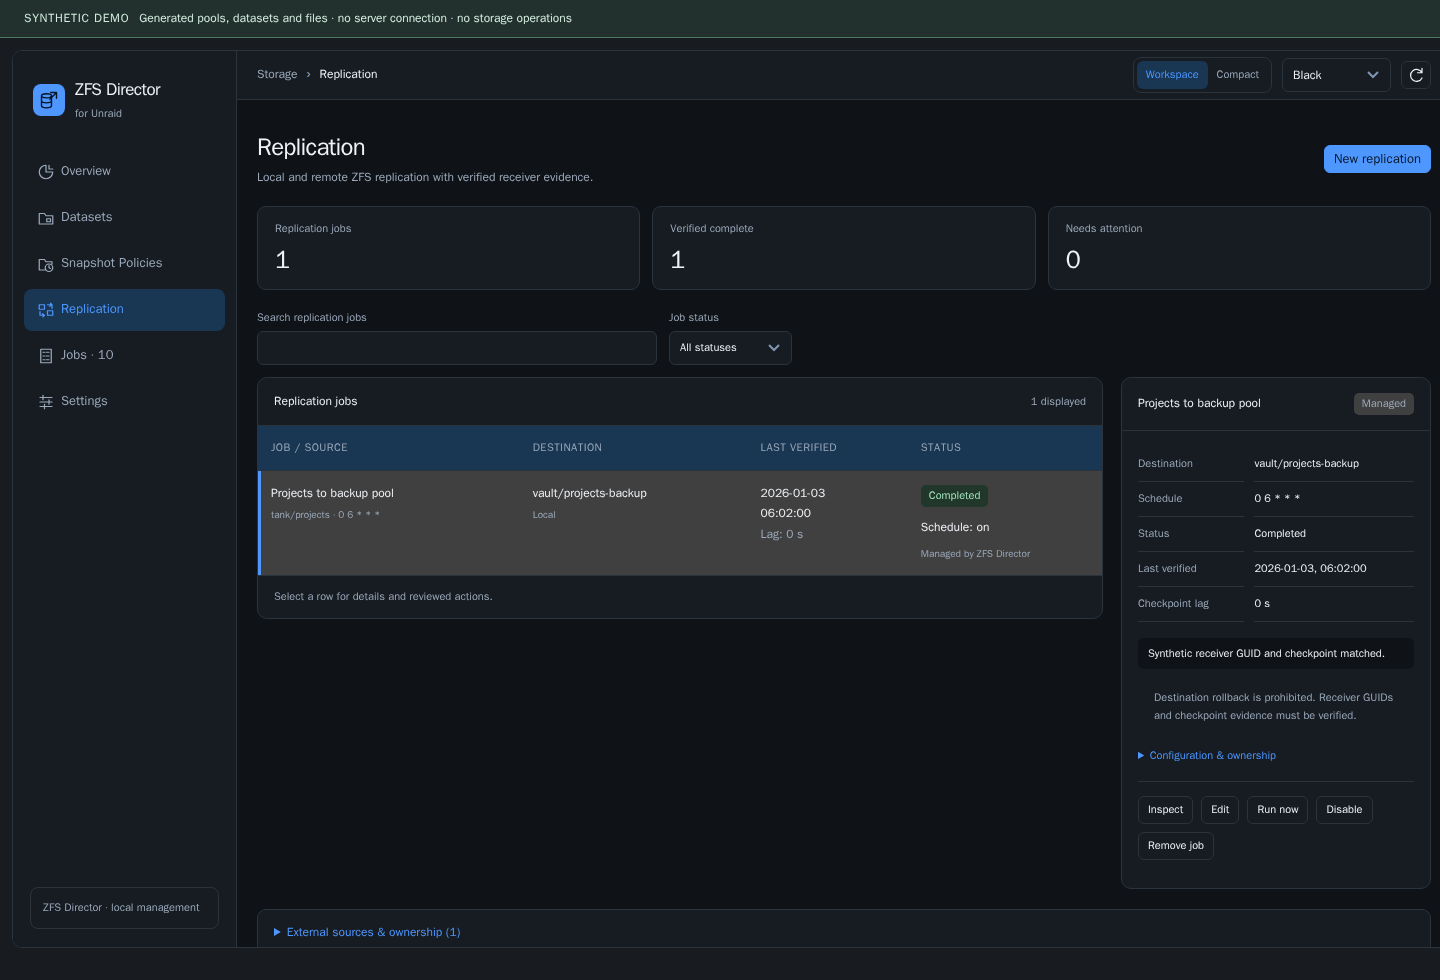
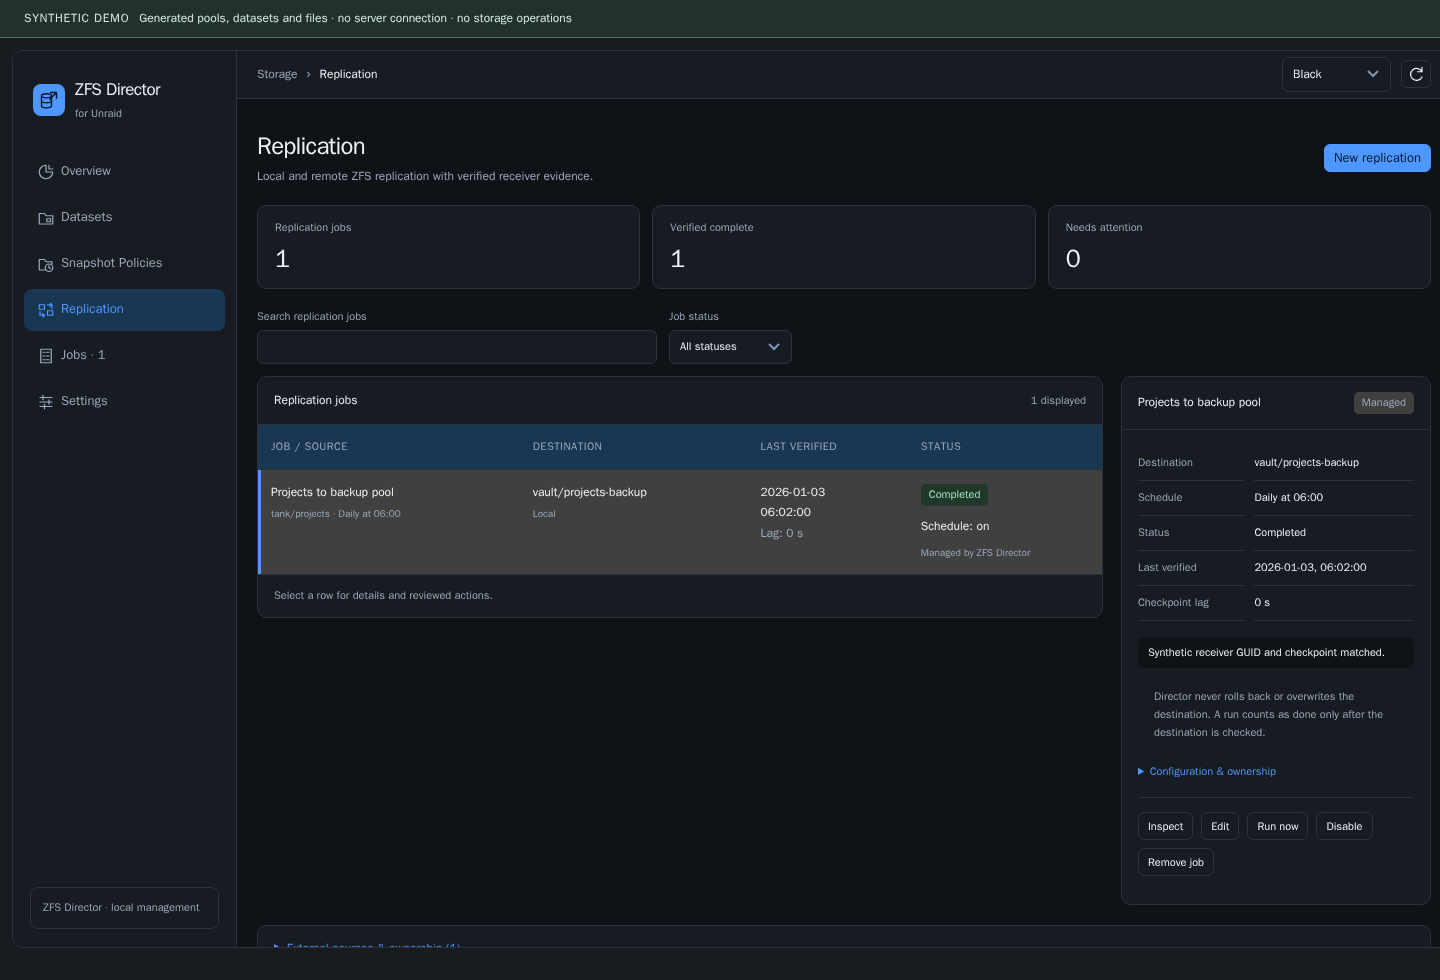
feat: Jobs for background work and failures, one layout, quieter flash, plainer texts (2026.11.13.1)

diff --git a/tests/installer.test.py b/tests/installer.test.py
@@ -44,7 +44,7 @@ class InstallerTests(unittest.TestCase):
     def removal_fixture(self, anchor):
         output = anchor / 'build'
         subprocess.run(['python3', str(ROOT / 'tools/build-installer.py'), '--output', str(output),
-                        '--release-base-url', 'https://example.invalid/releases/2026.11.09.12'],
+                        '--release-base-url', 'https://example.invalid/releases/2026.11.13.1'],
                        cwd=ROOT, check=True, capture_output=True)
         (anchor / 'live/scripts').mkdir(parents=True)
         (anchor / 'live/scripts/zfsm-worker.php').write_text('synthetic worker boundary')
@@ -156,12 +156,12 @@ class InstallerTests(unittest.TestCase):
         with tempfile.TemporaryDirectory(dir=STAND_TMP) as tmp:
             output = pathlib.Path(tmp) / 'build'
             subprocess.run(['python3', str(ROOT / 'tools/build-installer.py'), '--output', str(output),
-                            '--release-base-url', 'https://example.invalid/releases/2026.11.09.12'],
+                            '--release-base-url', 'https://example.invalid/releases/2026.11.13.1'],
                            cwd=ROOT, check=True, capture_output=True)
             self.assertTrue((output / 'zfs-director.plg').is_file(), 'The public plugin URL must use ZFS Director branding')
-            with zipfile.ZipFile(output / 'ZFS-Director-2026.11.09.12-Unraid.zip') as bundle:
+            with zipfile.ZipFile(output / 'ZFS-Director-2026.11.13.1-Unraid.zip') as bundle:
                 guide = bundle.read('INSTALL.txt').decode()
-                self.assertIn('https://example.invalid/releases/2026.11.09.12/zfs-director.plg', guide)
+                self.assertIn('https://example.invalid/releases/2026.11.13.1/zfs-director.plg', guide)
                 self.assertNotIn('explicit acceptance', guide)
                 self.assertNotIn('Copy its TWO files', guide)
                 self.assertNotIn('/boot/config/plugins/zfs.master.ui/', guide)
@@ -229,17 +229,17 @@ class InstallerTests(unittest.TestCase):
                 output = pathlib.Path(folder) / 'build'
                 args = ['python3', str(ROOT / 'tools/build-installer.py'), '--output', str(output)]
                 if public:
-                    args += ['--release-base-url', 'https://example.invalid/releases/2026.11.09.12']
+                    args += ['--release-base-url', 'https://example.invalid/releases/2026.11.13.1']
                 subprocess.run(args, cwd=ROOT, check=True, capture_output=True)
                 plugin_name = 'zfs-director.plg' if public else 'zfs.master.ui.local.plg'
-                bundle = output / 'ZFS-Director-2026.11.09.12-Unraid.zip'
+                bundle = output / 'ZFS-Director-2026.11.13.1-Unraid.zip'
                 self.assertTrue(bundle.is_file(), 'Users need a ready manual-install ZIP')
                 with zipfile.ZipFile(bundle) as archive:
                     self.assertIsNone(archive.testzip())
                     names = set(archive.namelist())
                     expected = {'INSTALL.txt', 'INSTALL.ru.txt', 'INSTALLATION.md', 'SHA256SUMS',
                                 'zfs-director/' + plugin_name,
-                                'zfs-director/zfs-director-2026.11.09.12.tgz'}
+                                'zfs-director/zfs-director-2026.11.13.1.tgz'}
                     if public:
                         expected.update(['legacy-local/zfs.master.ui.local.plg', 'legacy-public/zfs.master.ui.plg'])
                     self.assertEqual(names, expected, 'Bundle must not contain source, settings or Jobs')
@@ -252,14 +252,14 @@ class InstallerTests(unittest.TestCase):
                         digest, name = line.split('  ', 1)
                         self.assertEqual(digest, hashlib.sha256(archive.read(name)).hexdigest())
                     self.assertEqual(len(archive.read('SHA256SUMS').splitlines()), len(expected) - 1)
-                    for name in (plugin_name, 'zfs-director-2026.11.09.12.tgz'):
+                    for name in (plugin_name, 'zfs-director-2026.11.13.1.tgz'):
                         self.assertEqual(archive.read('zfs-director/' + name), (output / name).read_bytes())
                     for name in ('INSTALL.txt', 'INSTALL.ru.txt'):
                         guide = archive.read(name).decode()
                         self.assertIn('Plugins', guide)
                         self.assertIn('Install Plugin', guide)
                         self.assertNotIn('manual activation is required', guide)
-                        if public: self.assertIn('https://example.invalid/releases/2026.11.09.12/zfs-director.plg', guide)
+                        if public: self.assertIn('https://example.invalid/releases/2026.11.13.1/zfs-director.plg', guide)
                         self.assertNotRegex(guide, r'(?im)^\s*(?:npm |npx |python3 |git clone)')
                     # Reproduce only the documented file handoff in a private stand.
                     # No installation code is executed and no host path is used.
@@ -283,7 +283,7 @@ class InstallerTests(unittest.TestCase):
         with tempfile.TemporaryDirectory(dir=STAND_TMP) as folder:
             root = pathlib.Path(folder)
             out = root / 'build'
-            subprocess.run(['python3', str(ROOT / 'tools/build-installer.py'), '--output', str(out), '--release-base-url', 'https://example.invalid/releases/2026.11.09.12'], check=True, capture_output=True)
+            subprocess.run(['python3', str(ROOT / 'tools/build-installer.py'), '--output', str(out), '--release-base-url', 'https://example.invalid/releases/2026.11.13.1'], check=True, capture_output=True)
             first = ET.parse(out / 'zfs-director.plg').findall('FILE')[0]
             self.assertNotIn('Name', first.attrib)
             gate = first.findtext('INLINE')
@@ -316,7 +316,7 @@ class InstallerTests(unittest.TestCase):
     def test_stable_plugin_url_base_drives_update_checks_but_not_package_pinning(self):
         # A tag-pinned pluginURL makes Plugin Manager poll the same release forever.
         builder = ROOT / 'tools/build-installer.py'
-        base = 'https://example.invalid/releases/2026.11.09.12'
+        base = 'https://example.invalid/releases/2026.11.13.1'
         stable = 'https://example.invalid/stable/main'
         with tempfile.TemporaryDirectory(dir=STAND_TMP) as tmp:
             out = pathlib.Path(tmp) / 'build'
@@ -325,7 +325,7 @@ class InstallerTests(unittest.TestCase):
             for name in ['zfs-director.plg', 'zfs.master.ui.plg', 'zfs.master.ui.local.plg']:
                 plugin = ET.parse(out / name).getroot()
                 self.assertEqual(plugin.attrib['pluginURL'], stable + '/' + name)
-                self.assertEqual(plugin.findtext('FILE[@Name]/URL'), base + '/zfs-director-2026.11.09.12.tgz')
+                self.assertEqual(plugin.findtext('FILE[@Name]/URL'), base + '/zfs-director-2026.11.13.1.tgz')
             result = subprocess.run(['python3', str(builder), '--output', str(pathlib.Path(tmp) / 'local'),
                                      '--plugin-url-base', stable], cwd=ROOT, capture_output=True, text=True)
             self.assertEqual(result.returncode, 2)
@@ -335,9 +335,9 @@ class InstallerTests(unittest.TestCase):
         with tempfile.TemporaryDirectory(dir=STAND_TMP) as tmp:
             out = pathlib.Path(tmp) / 'build'
             subprocess.run(['python3', str(ROOT / 'tools/build-installer.py'), '--output', str(out),
-                            '--release-base-url', 'https://example.invalid/releases/2026.11.09.12'],
+                            '--release-base-url', 'https://example.invalid/releases/2026.11.13.1'],
                            cwd=ROOT, check=True, capture_output=True)
-            with zipfile.ZipFile(out / 'ZFS-Director-2026.11.09.12-Unraid.zip') as zipped:
+            with zipfile.ZipFile(out / 'ZFS-Director-2026.11.13.1-Unraid.zip') as zipped:
                 self.assertIn('legacy-local/zfs.master.ui.local.plg', zipped.namelist(), 'The public ZIP must provide an upgrade for existing .local registrations')
                 legacy = ET.fromstring(zipped.read('legacy-local/zfs.master.ui.local.plg'))
                 public = ET.fromstring(zipped.read('zfs-director/zfs-director.plg'))
@@ -427,7 +427,7 @@ class InstallerTests(unittest.TestCase):
         # A missing/wrong URL, an unpinned package or nondeterministic build
         # must fail before these artifacts are offered to a plugin manager.
         builder = ROOT / 'tools/build-installer.py'
-        base = 'https://downloads.example.invalid/zfs-director/2026.11.09.12'
+        base = 'https://downloads.example.invalid/zfs-director/2026.11.13.1'
         with tempfile.TemporaryDirectory(dir=STAND_TMP) as tmp:
             outputs = [pathlib.Path(tmp) / name for name in ['first', 'second']]
             for output in outputs:
@@ -436,7 +436,7 @@ class InstallerTests(unittest.TestCase):
                 self.assertEqual(result.returncode, 0, result.stderr)
             first, second = outputs
             self.assertEqual(sorted(p.name for p in first.iterdir()),
-                             ['SHA256SUMS', 'ZFS-Director-2026.11.09.12-Unraid.zip', 'install.sh', 'zfs-director-2026.11.09.12.tgz', 'zfs-director.plg', 'zfs.master.ui.local.plg', 'zfs.master.ui.plg'])
+                             ['SHA256SUMS', 'ZFS-Director-2026.11.13.1-Unraid.zip', 'install.sh', 'zfs-director-2026.11.13.1.tgz', 'zfs-director.plg', 'zfs.master.ui.local.plg', 'zfs.master.ui.plg'])
             for path in first.iterdir():
                 self.assertEqual(path.read_bytes(), (second / path.name).read_bytes(), path.name)
             for line in (first / 'SHA256SUMS').read_text().splitlines():
@@ -444,12 +444,12 @@ class InstallerTests(unittest.TestCase):
                 self.assertEqual(digest, hashlib.sha256((first / name).read_bytes()).hexdigest())
             plugin = ET.parse(first / 'zfs-director.plg').getroot()
             self.assertEqual(plugin.attrib['pluginURL'], base + '/zfs-director.plg')
-            self.assertEqual(plugin.attrib['version'], '2026.11.09.12')
+            self.assertEqual(plugin.attrib['version'], '2026.11.13.1')
             package = plugin.find('FILE[@Name]')
-            self.assertEqual(package.attrib['Name'], '/boot/config/plugins/zfs.master.ui/zfs-director-2026.11.09.12.tgz')
-            self.assertEqual(package.findtext('URL'), base + '/zfs-director-2026.11.09.12.tgz')
+            self.assertEqual(package.attrib['Name'], '/boot/config/plugins/zfs.master.ui/zfs-director-2026.11.13.1.tgz')
+            self.assertEqual(package.findtext('URL'), base + '/zfs-director-2026.11.13.1.tgz')
             self.assertIsNone(package.find('LOCAL'))
-            archive = first / 'zfs-director-2026.11.09.12.tgz'
+            archive = first / 'zfs-director-2026.11.13.1.tgz'
             self.assertEqual(package.findtext('MD5'), hashlib.md5(archive.read_bytes()).hexdigest())
             with tarfile.open(archive) as tar:
                 release = json.load(tar.extractfile('zfs.master.ui/release.json'))
@@ -546,7 +546,7 @@ class InstallerTests(unittest.TestCase):
     def test_changelog_text_with_unsafe_characters_reaches_plg_changes_unescaped(self):
         # An apostrophe in the release notes once broke the f-string that built
         # <CHANGES>. CHANGELOG.md must carry any character without touching the script.
-        version = '2026.11.09.12'
+        version = '2026.11.13.1'
         section = ('### ' + version + '\n'
                    'It\'s "quoted" <tag> & $HOME on the first line.\n'
                    'A second line of the same paragraph.\n\n'
@@ -567,7 +567,7 @@ class InstallerTests(unittest.TestCase):
                 self.assertEqual(result.returncode, 0, result.stderr)
 
     def test_missing_changelog_section_for_version_fails_the_build(self):
-        version = '2026.11.09.12'
+        version = '2026.11.13.1'
         with tempfile.TemporaryDirectory(dir=STAND_TMP) as tmp:
             root = pathlib.Path(tmp)
             changelog = root / 'CHANGELOG.md'

diff --git a/tools/build-installer.py b/tools/build-installer.py
@@ -18,7 +18,7 @@ import zipfile
 from urllib.parse import urlsplit
 
 ROOT = pathlib.Path(__file__).resolve().parents[1]
-VERSION = '2026.11.09.12'
+VERSION = '2026.11.13.1'
 STOP_MARKER = r'''use strict;
 use warnings;
 use Fcntl qw(:DEFAULT :mode);

diff --git a/README.ru.md b/README.ru.md
@@ -8,7 +8,7 @@
 - **[Интеграция Sanoid](#политики-sanoid):** задайте время создания snapshots, хранение и безопасное удаление старых копий; просматривайте External и Managed policies.
 - **[Интеграция Syncoid](#репликация-syncoid):** настройте локальную или SSH-репликацию через Source → Destination → Schedule → Review; progress и проверенный результат доступны в Jobs.
 
-**[Скачать установочный ZIP для Unraid](https://github.com/d1-m4ss/zfs-director/releases/download/2026.11.09.12/ZFS-Director-2026.11.09.12-Unraid.zip)** · [SHA256SUMS](https://github.com/d1-m4ss/zfs-director/releases/download/2026.11.09.12/SHA256SUMS) · [Установка и rollback](docs/INSTALLATION.md)
+**[Скачать установочный ZIP для Unraid](https://github.com/d1-m4ss/zfs-director/releases/download/2026.11.13.1/ZFS-Director-2026.11.13.1-Unraid.zip)** · [SHA256SUMS](https://github.com/d1-m4ss/zfs-director/releases/download/2026.11.13.1/SHA256SUMS) · [Установка и rollback](docs/INSTALLATION.md)
 
 Каждый релиз проходит автоматические тесты (`npm run test:all`: unit- и PHP-тесты, GUI-проверки в Chromium и интеграционные). Установка, обновления, ZFS-операции и GUI проверены на физическом сервере Unraid 7.3.3 с OpenZFS 2.4.4 для RC1 (2026-10-22). Что покрыто, а что нет, описано в [результатах проверки](docs/TESTING.md).
 
@@ -45,7 +45,7 @@ https://raw.githubusercontent.com/d1-m4ss/zfs-director/main/plugin/zfs-director.
 
 Новые версии появляются в **Plugins → Check for Updates** и в Community Applications. Ставили плагин по старому URL релиза (`…/releases/download/…/zfs-director.plg`)? Один раз переустановите его по URL выше с **Force Install**, чтобы проверка обновлений видела новые релизы.
 
-Также доступны [ZIP и контрольные суммы](https://github.com/d1-m4ss/zfs-director/releases/tag/2026.11.09.12). Подробнее — в [инструкции установки, обновления и rollback](docs/INSTALLATION.md).
+Также доступны [ZIP и контрольные суммы](https://github.com/d1-m4ss/zfs-director/releases/tag/2026.11.13.1). Подробнее — в [инструкции установки, обновления и rollback](docs/INSTALLATION.md).
 
 ## Snapshot File Manager
 

diff --git a/README.md b/README.md
@@ -8,7 +8,7 @@ Manage ZFS in Unraid, browse snapshots in a **Snapshot File Manager**, automate 
 - **[Sanoid integration](#sanoid-snapshot-policies):** choose snapshot creation times, retention and protected removal of old snapshots; review External and Managed policies.
 - **[Syncoid integration](#syncoid-replication):** create local or SSH replication jobs through Source → Destination → Schedule → Review, with progress and verified results in Jobs.
 
-**[Download the Unraid installation ZIP](https://github.com/d1-m4ss/zfs-director/releases/download/2026.11.09.12/ZFS-Director-2026.11.09.12-Unraid.zip)** · [SHA256SUMS](https://github.com/d1-m4ss/zfs-director/releases/download/2026.11.09.12/SHA256SUMS) · [Installation and rollback](docs/INSTALLATION.md)
+**[Download the Unraid installation ZIP](https://github.com/d1-m4ss/zfs-director/releases/download/2026.11.13.1/ZFS-Director-2026.11.13.1-Unraid.zip)** · [SHA256SUMS](https://github.com/d1-m4ss/zfs-director/releases/download/2026.11.13.1/SHA256SUMS) · [Installation and rollback](docs/INSTALLATION.md)
 
 Every release passes the automated suite (`npm run test:all`: unit and PHP tests, Chromium GUI and integration checks). Installation, upgrades, ZFS operations and the GUI were verified on a physical Unraid 7.3.3 server with OpenZFS 2.4.4 for RC1 (2026-10-22). See [testing](docs/TESTING.md) for what is and is not covered.
 
@@ -45,7 +45,7 @@ The installer downloads and verifies the ready-made package, creates its own sto
 
 New versions appear in **Plugins → Check for Updates** and in Community Applications. Installed from an older release URL (`…/releases/download/…/zfs-director.plg`)? Reinstall once from the URL above with **Force Install** so update checks follow new releases.
 
-The [ZIP and checksums](https://github.com/d1-m4ss/zfs-director/releases/tag/2026.11.09.12) are also available. See [installation, upgrades and rollback](docs/INSTALLATION.md).
+The [ZIP and checksums](https://github.com/d1-m4ss/zfs-director/releases/tag/2026.11.13.1) are also available. See [installation, upgrades and rollback](docs/INSTALLATION.md).
 
 ## Snapshot File Manager
 

diff --git a/docs/DEVELOPMENT.md b/docs/DEVELOPMENT.md
@@ -8,7 +8,7 @@ The package builder supports **local evaluation and an explicitly configured pub
 
 ```sh
 python3 tools/build-installer.py --output dist/local
-RELEASE_BASE_URL='https://github.com/d1-m4ss/zfs-director/releases/download/2026.11.09.12'
+RELEASE_BASE_URL='https://github.com/d1-m4ss/zfs-director/releases/download/2026.11.13.1'
 python3 tools/build-installer.py --output dist/release --release-base-url "$RELEASE_BASE_URL" \
   --plugin-url-base https://raw.githubusercontent.com/d1-m4ss/zfs-director/main/plugin
 ```
@@ -47,6 +47,6 @@ The preview uses the real frontend with a read-only synthetic response adapter. 
 
 ## Manual-install ZIP
 
-Every build also produces `ZFS-Director-2026.11.09.12-Unraid.zip`. It contains the matching PLG/TGZ pair, two short installation guides, the full installation guide and an internal SHA-256 manifest. No source tree, settings, Jobs or datasets are included. Release mode places `zfs-director.plg` in `zfs-director` and includes the compatibility definitions under `legacy-public` and `legacy-local` for existing local registrations; all use the common TGZ. Local mode contains only `zfs.master.ui.local.plg`. Never mix assets from different builds.
+Every build also produces `ZFS-Director-2026.11.13.1-Unraid.zip`. It contains the matching PLG/TGZ pair, two short installation guides, the full installation guide and an internal SHA-256 manifest. No source tree, settings, Jobs or datasets are included. Release mode places `zfs-director.plg` in `zfs-director` and includes the compatibility definitions under `legacy-public` and `legacy-local` for existing local registrations; all use the common TGZ. Local mode contains only `zfs.master.ui.local.plg`. Never mix assets from different builds.
 
 ZIP member names, timestamps and modes are deterministic. Publish the ZIP and external `SHA256SUMS` together with the matching public PLG, compatibility PLG and TGZ release assets. The ZIP is the primary download for manual installation; GitHub's source-code archives are for development.

diff --git a/docs/INSTALLATION.md b/docs/INSTALLATION.md
@@ -1,6 +1,6 @@
 # Install ZFS Director in Unraid
 
-Version 2026.11.09.12 targets Unraid 7.3.3 / OpenZFS 2.4.4. No source build, developer tools, terminal activation or manual state-directory creation is required.
+Version 2026.11.13.1 targets Unraid 7.3.3 / OpenZFS 2.4.4. No source build, developer tools, terminal activation or manual state-directory creation is required.
 
 ## Install
 
@@ -22,7 +22,7 @@ Existing settings, Jobs, recovery files and schedules are retained. If the insta
 
 ## ZIP download
 
-The release also provides a [ready-made ZIP](https://github.com/d1-m4ss/zfs-director/releases/download/2026.11.09.12/ZFS-Director-2026.11.09.12-Unraid.zip) and [SHA256SUMS](https://github.com/d1-m4ss/zfs-director/releases/download/2026.11.09.12/SHA256SUMS), containing matching PLG/TGZ files and short English/Russian guides. The plugin URL above is the normal installation method.
+The release also provides a [ready-made ZIP](https://github.com/d1-m4ss/zfs-director/releases/download/2026.11.13.1/ZFS-Director-2026.11.13.1-Unraid.zip) and [SHA256SUMS](https://github.com/d1-m4ss/zfs-director/releases/download/2026.11.13.1/SHA256SUMS), containing matching PLG/TGZ files and short English/Russian guides. The plugin URL above is the normal installation method.
 
 For local PLG selection, extract the ZIP and copy `zfs-director/zfs-director.plg` to the flash drive's existing `config/plugins` folder. Select that file in **Plugins → Install Plugin**. The public PLG downloads its matching TGZ itself. You do not need to create a separate plugin directory or unpack the TGZ into WebGUI.
 

diff --git a/CHANGELOG.md b/CHANGELOG.md
@@ -1,3 +1,8 @@
+### 2026.11.13.1
+Jobs now lists background work and failures only. Quick actions such as taking a snapshot or saving settings are recorded in Administrative History, so the list is no longer flooded. Scheduled snapshot checks that find nothing to do no longer write anything to the USB flash, and settings and policy changes can be saved while a long operation is running. The Jobs badge shows active and attention jobs, replication schedules are shown in words, a disabled action shows why, and the empty Unknown rows are gone. One interface layout replaces Workspace and Compact. Rare settings sit under Advanced, and technical texts are plainer. The File Manager fits a phone screen again, and a busy operation lock now names the running operation. The support link points to the Unraid forum thread.
+
+ZFS Director: based on ZFS Master by Carlos Rodriguez (IkerSaint). GPL-2.0-or-later. Settings and recovery state retain their namespace. Background services start automatically after successful validation. Uninstall stops Director services and preserves settings, Jobs and recovery data.
+
 ### 2026.11.09.12
 Compact top area, so the work panes are taller. A pool warning now shows its reason with links to the replication job and the pool status. Replication destination is a parent dataset plus a replica name (it is created inside the parent, with the full path shown). Scheduled snapshot checks that did nothing are no longer written to Jobs or the audit log. The Clear button in Jobs is aligned.
 

diff --git a/src/README.md b/src/README.md
@@ -1,5 +1,5 @@
 **ZFS Director**
 
-Manage ZFS datasets, snapshots, file restores, snapshot policies and replication in Unraid. Version 2026.11.09.12.
+Manage ZFS datasets, snapshots, file restores, snapshot policies and replication in Unraid. Version 2026.11.13.1.
 
 Derived from ZFS Master by Carlos Rodriguez (IkerSaint), copyright 2021, with further adaptations credited in NOTICE.md. GPL-2.0-or-later; no warranty. The legacy plugin ID is zfs.master.ui. See the repository README for requirements, safety boundaries, build instructions and known limitations.
